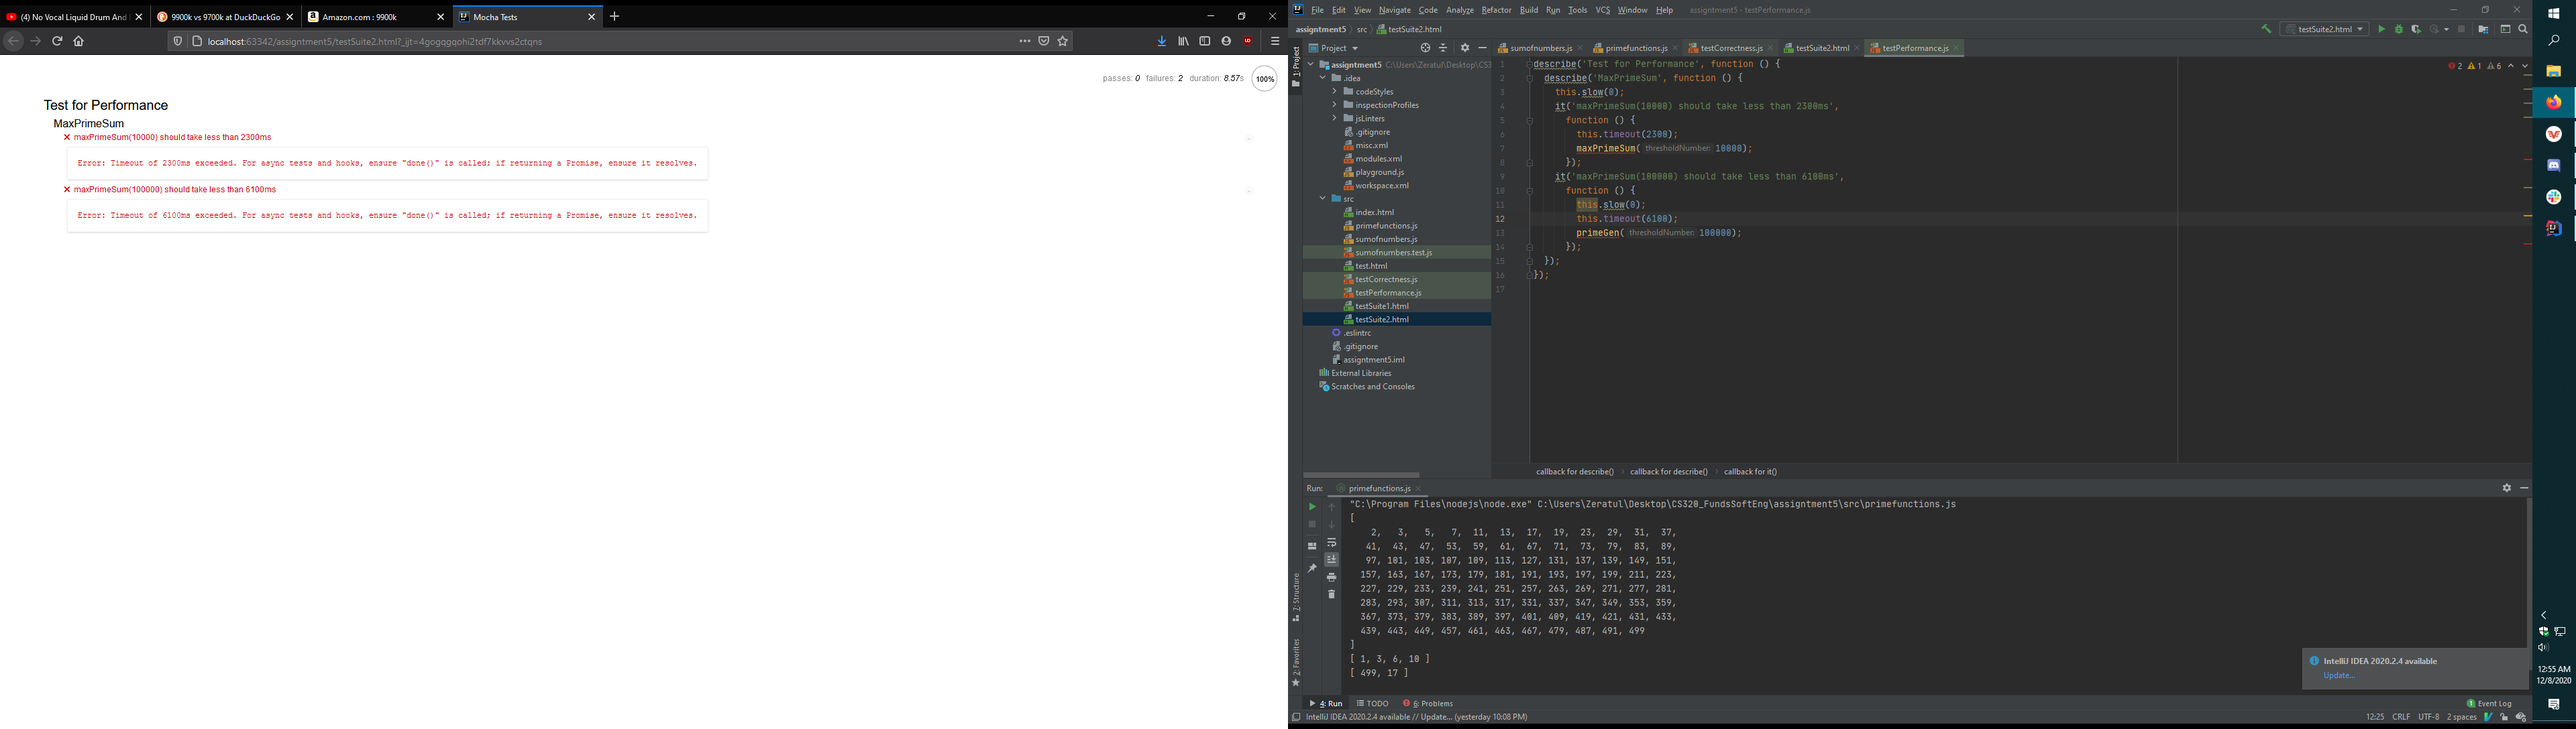
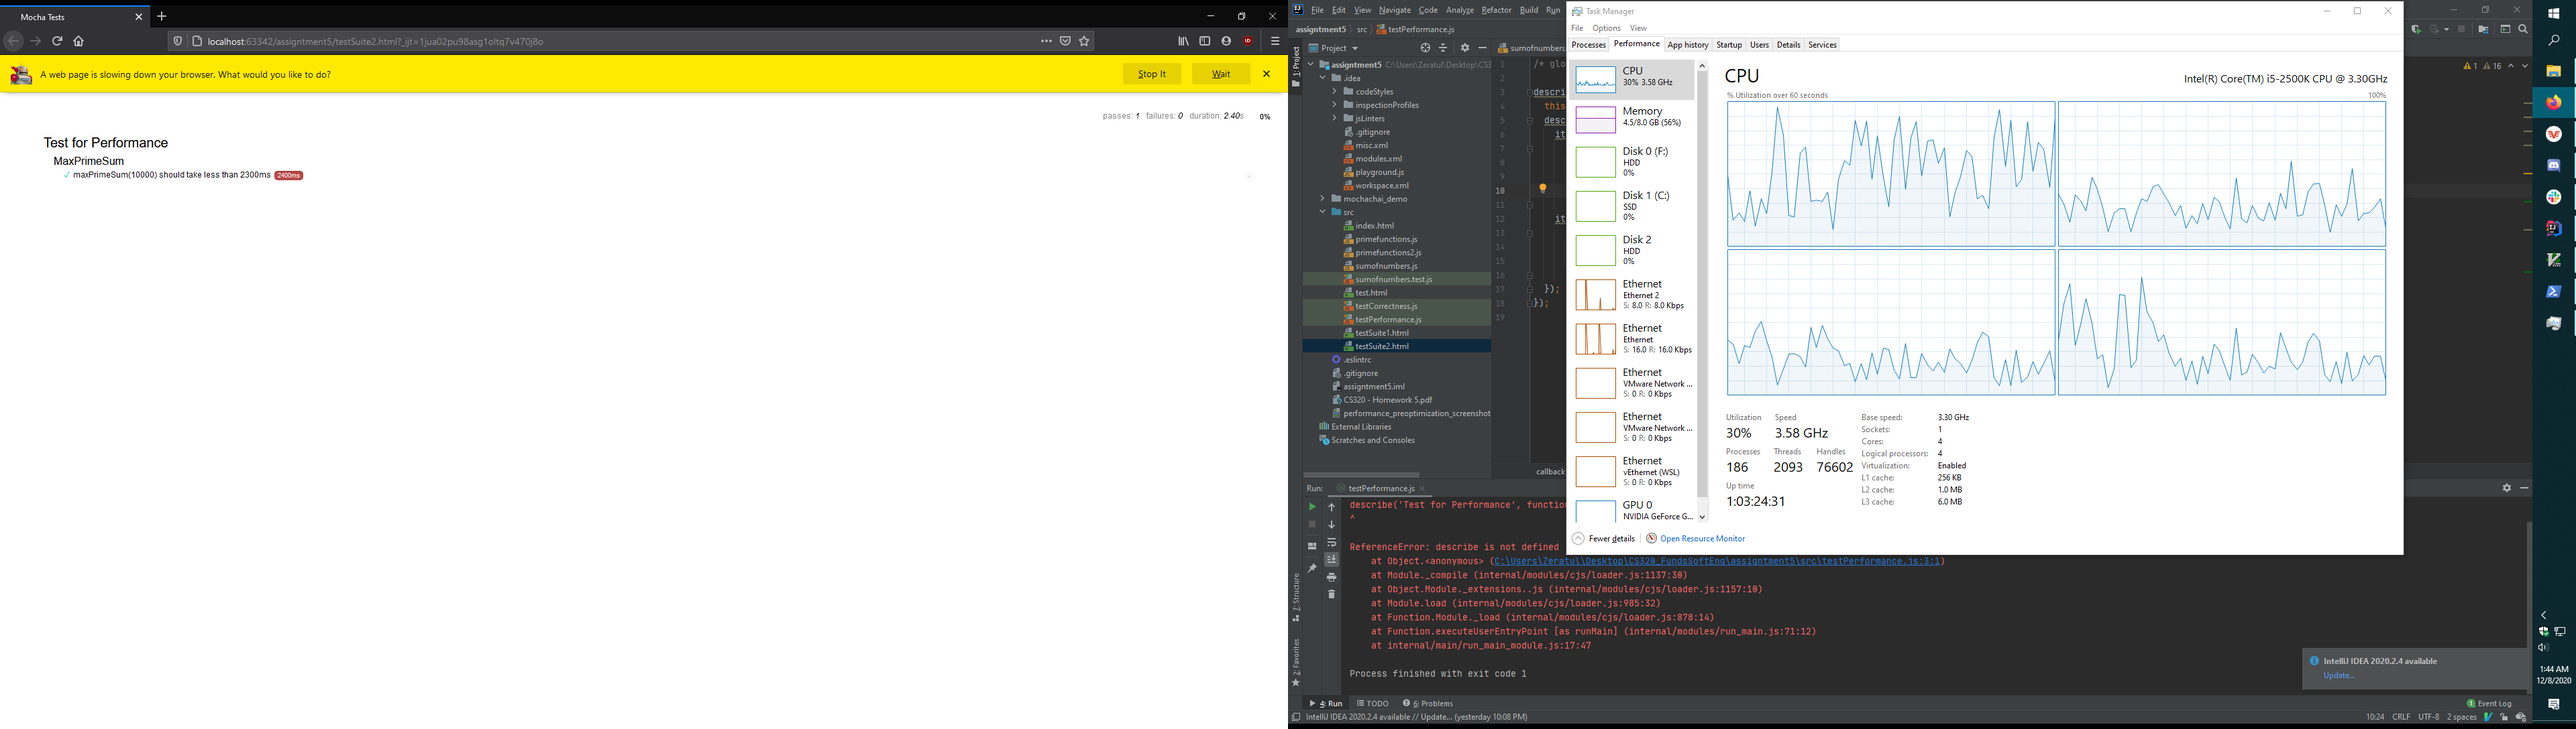
Optimizations + tests complete

diff --git a/src/primefunctions2.js b/src/primefunctions2.js
@@ -2,7 +2,12 @@
   Ryan Paulos
   CS 320
   Assignment 5 - Coding Standards (ESLint) and Git
-  10/28/2020
+  NEW ALGORITHM: Start at the beginning, include a total sum
+  Just walk up like a caterpillar..Once a slice exceeds the threshold move the right index back one, to the prime number
+  just before the one that sent the total over the threshold.  Then pull the left index up by one, freeing up some
+  space.  Then try moving the right index again. Repeat.
+  When leftPost is pulled up one we should move rightPost backward until the slice length equals
+  highestPrimeTermCount + 1
  */
 
 // Problem 1: Prime Number Generator
@@ -43,58 +48,50 @@ function cumulativeSum(array) {
 }
 
 // Problem 3: Max Prime Sum
-// Utilizes nested function for recursively evaluating prime array subsets.
 function maxPrimeSum(thresholdNumber) {
-  // Recursive function for evaluating all subsets of a given prime number array.
-  function maxxer(primeSubset, primeOriginal) {
-    // Initializing counter variables
-    let maxTerms = 0;
-    let maxSum = 0;
-    let currentTerms = 0;
-    let currentSum = 0;
-
-    // Iterating through each prime number, beginning with the smallest
-    // in primeSubset, to determine the local term and local sum maximums.
-    const subLength = primeSubset.length;
-    let i = 0;
-    for (i; i < subLength; i++) {
-      // Checking if next sum would exceed our largest prime
-      const nextNumber = primeSubset[i];
-      if (currentSum + nextNumber > primeOriginal[-1]) {
-        break;
+  // These walk the array of prime numbers and provide
+  // the permutations.
+  let leftPost = 0;
+  let rightPost = 0;
+  // The primes themselves
+  const primes = primeGen(thresholdNumber);
+  // running sum of the prime numbers held within leftPost and rightPost (inclusive).
+  // Note, this value grows and shrinks
+  let runningSum = 0;
+  let termCount = 1;
+  let highestPrime = 0;
+  let highestPrimeTermCount = 0;
+  // Exit condition: left_post === right_post >= threshold number
+  runningSum += primes[leftPost];
+  while (1) {
+    // Establishing exit condition (no more possible permutations of primes)
+    rightPost += 1;
+    runningSum += primes[rightPost];
+    termCount += 1;
+    // Checks if primes now exceed the threshold.
+    // Walks the last rightPost movement back 1
+    // and moves the leftPost right until once again under
+    // the thresholdNumber or leftPost == rightPost, indicating no further combinations are possible.
+    if (runningSum >= thresholdNumber) {
+      // Pull leftPost up one
+      if (leftPost === rightPost) { break; } // Left post would be getting ahead of right post. Permutations exhausted
+      runningSum -= primes[leftPost];
+      leftPost += 1;
+      termCount -= 1;
+      // And move rightPost back until reaching highestPrimeTermCount + 1
+      while (termCount > highestPrimeTermCount) {
+        runningSum -= primes[rightPost];
+        rightPost -= 1;
+        termCount -= 1;
       }
-      // Largest prime not exceeded.  Incrementing iteration variables.
-      currentTerms += 1;
-      currentSum += nextNumber;
-      // Checking if new sum is a prime
-      if (primeSubset.includes(currentSum)) {
-        maxTerms = currentTerms;
-        maxSum = currentSum;
-      }
+      if (runningSum > thresholdNumber) { break; }
     }
-
-    // Evaluating each subset of primeSubset, if they exist
-    if (subLength === 1) {
-      return { terms: maxTerms, sum: maxSum };
+    if (primes.includes(runningSum) && termCount > highestPrimeTermCount) {
+      highestPrime = runningSum;
+      highestPrimeTermCount = termCount;
     }
-    // Beginning subset evaluation
-    const nextSubset = primeSubset.slice(1);
-    const ret = maxxer(nextSubset, primeOriginal);
-    if (ret.terms > maxTerms) {
-      maxTerms = ret.terms;
-      maxSum = ret.sum;
-    } else if (ret.terms === maxTerms && ret.sum > maxSum) {
-      maxSum = ret.sum;
-    }
-    return { terms: maxTerms, sum: maxSum };
   }
-  // maxPrimeSum continues here
-  const primeArray = primeGen(thresholdNumber);
-  const returnArray = [];
-  const primeAnswer = maxxer(primeArray, primeArray);
-  returnArray.push(primeAnswer.sum);
-  returnArray.push(primeAnswer.terms);
-  return returnArray;
+  return [highestPrime, highestPrimeTermCount];
 }
 
 // Problem 1 results
@@ -106,5 +103,5 @@ const cumulativeSumResults = cumulativeSum([1, 2, 3, 4]);
 console.log(cumulativeSumResults);
 
 // Problem 3 results
-const maxPrimeSumResults = maxPrimeSum(500);
+const maxPrimeSumResults = maxPrimeSum(10000);
 console.log(maxPrimeSumResults);

diff --git a/src/testPerformance.js b/src/testPerformance.js
@@ -1,16 +1,18 @@
+/* global maxPrimeSum */
+
 describe('Test for Performance', function () {
+  this.slow(0);
   describe('MaxPrimeSum', function () {
-    this.slow(0);
     it('maxPrimeSum(10000) should take less than 2300ms',
       function () {
-        this.timeout(2300);
-        maxPrimeSum(10000);
-      });
-    it('maxPrimeSum(100000) should take less than 6100ms',
-      function () {
         this.slow(0);
-        this.timeout(6100);
-        primeGen(100000);
+        this.timeout(23000);
+        chai.expect(maxPrimeSum(10000)).to.deep.equal([9521, 65]);
+      });
+    it('maxPrimeSum(100000) should take less than 20000ms',
+      function () {
+        this.timeout(20000);
+        chai.expect(maxPrimeSum(100000)).to.deep.equal([92951, 183]);
       });
   });
 });

diff --git a/src/primefunctions.js b/src/primefunctions.js
@@ -106,5 +106,8 @@ const cumulativeSumResults = cumulativeSum([1, 2, 3, 4]);
 console.log(cumulativeSumResults);
 
 // Problem 3 results
-const maxPrimeSumResults = maxPrimeSum(500);
+const maxPrimeSumResults = maxPrimeSum(10000);
 console.log(maxPrimeSumResults);
+
+let prms = primeGen(10000);
+console.log(cumulativeSum(prms));
